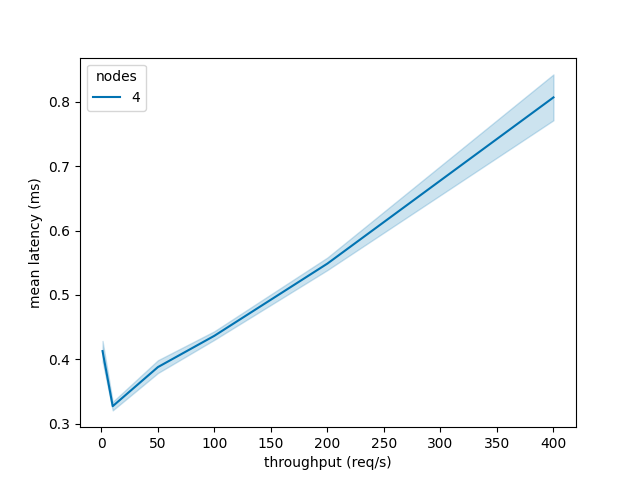
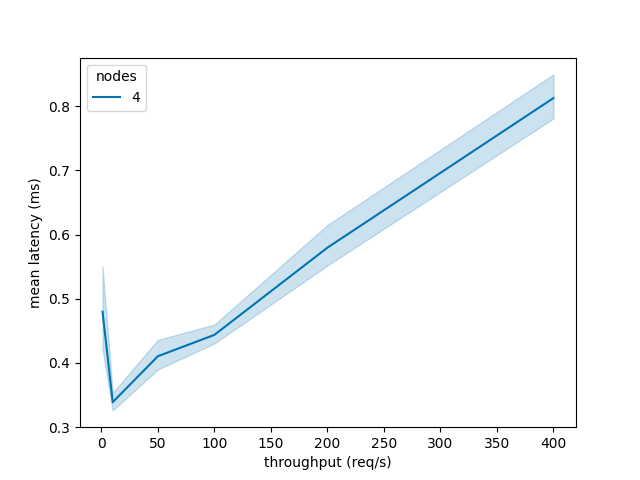
setup chained test

diff --git a/src/runExperiments.py b/src/runExperiments.py
@@ -54,7 +54,7 @@ for (rate, n, s) in test_iter:
 		for i in range(n):
 			processes.append(subprocess.Popen(f'ulimit -n 65536; eval $(opam env) dune exec --build-dir=_build{str(i)} -- ./main.exe -i {str(i)} -n {str(n)} -b {str(s)}', shell=True, preexec_fn=os.setsid))
 		time.sleep(10)
-		completed = subprocess.run(f'eval $(opam env) dune exec -- ./live_test.exe {str(n)} -t {str(experiment_time)} -r {str(rate)} -b ∞ --times "{test_path + "subtests/" + name}.csv" --stats "{test_path}stats.csv"', shell=True)
+		completed = subprocess.run(f'eval $(opam env) dune exec -- ./live_test.exe {str(n)} -c -t {str(experiment_time)} -r {str(rate)} -b {str(s)} --times "{test_path + "subtests/" + name}.csv" --stats "{test_path}stats.csv"', shell=True)
 		if completed.returncode == 0:
 			succ = True
 		time.sleep(1)
